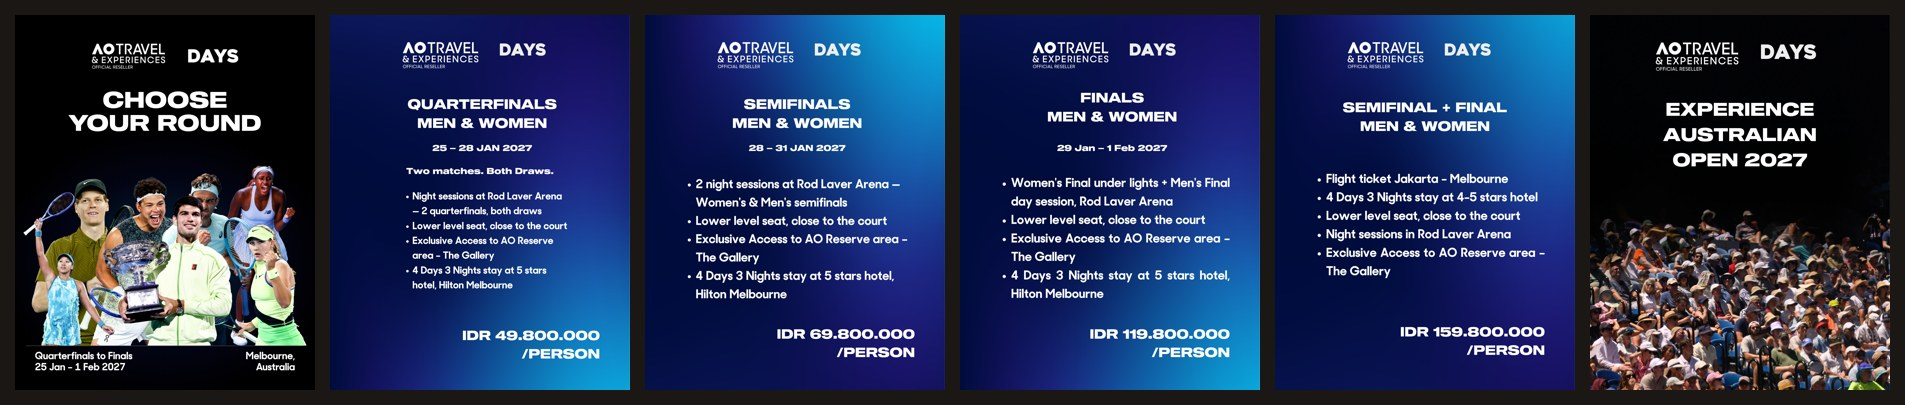
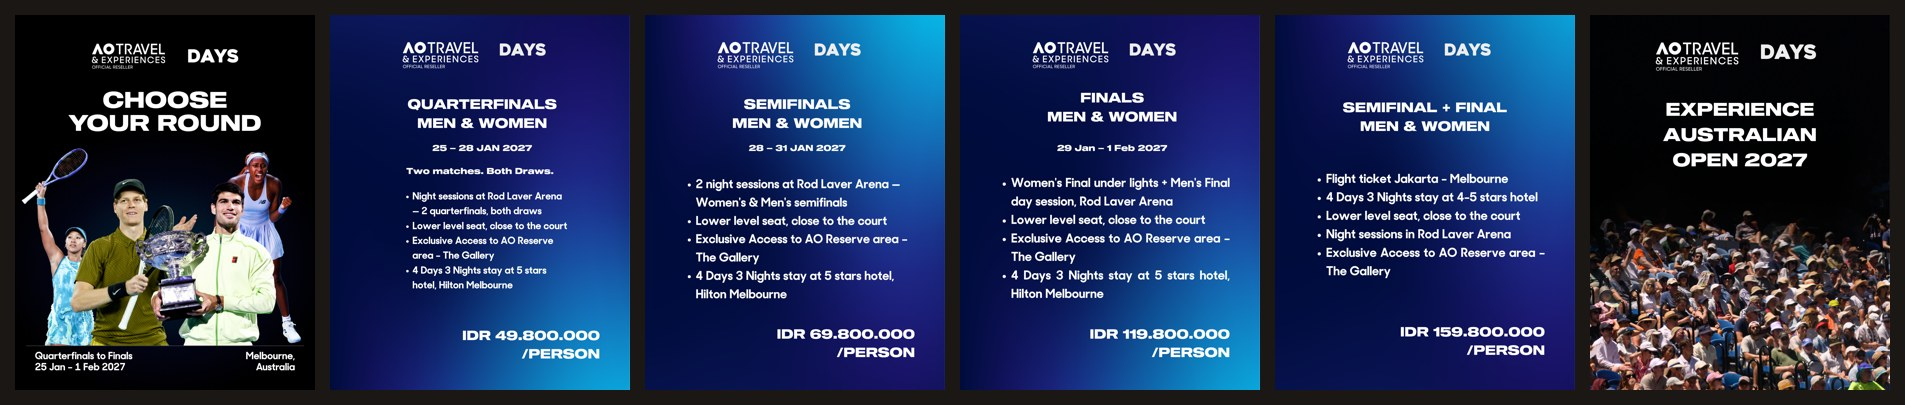
AO 2027: Post 2 cover with four players (Alcaraz, Sinner, Osaka, Gauff)
Claude-Session: https://claude.ai/code/session_01Eb5aT3tpEevDBBbf6MCDFd

Changed region(s): [[0.0, 0.3556, 0.1858, 0.8593]]

diff --git a/social/ao-2027/slides.html b/social/ao-2027/slides.html
@@ -86,13 +86,10 @@ h2 em{font-style:normal;color:var(--blue)}
   <h1>Choose<br>your round</h1>
   <!-- Players may overlap one another; no text sits on any image. Back to front. -->
   <div class="players">
-    <img src="img/player-m-sinner.png" alt="" style="left:60px;height:600px;z-index:1">
-    <img src="img/player-w-gauff.png" alt="" style="right:40px;height:650px;z-index:1">
-    <img src="img/player-m-shelton.png" alt="" style="left:268px;height:610px;z-index:2">
-    <img src="img/player-m-4.png" alt="" style="right:206px;height:620px;z-index:2">
-    <img src="img/player-a-trim.png" alt="" style="left:30px;height:560px;z-index:3">
-    <img src="img/player-b-trim.png" alt="" style="right:30px;height:440px;z-index:3">
-    <img src="img/player-m-alcaraz.png" alt="" style="left:318px;height:540px;z-index:4">
+    <img src="img/player-a-trim.png" alt="" style="left:24px;height:720px;z-index:1">
+    <img src="img/player-w-gauff.png" alt="" style="right:50px;height:700px;z-index:1">
+    <img src="img/player-m-sinner.png" alt="" style="left:200px;height:600px;z-index:2">
+    <img src="img/player-m-alcaraz.png" alt="" style="right:140px;height:590px;z-index:3">
   </div>
   <div class="base"></div>
   <div class="meta"><span>Quarterfinals to Finals<br>25 Jan – 1 Feb 2027</span><span class="r">Melbourne,<br>Australia</span></div>

diff --git a/social/ao-2027/caption.md b/social/ao-2027/caption.md
@@ -71,7 +71,7 @@ DM kami atau WhatsApp +62 812-2000-0185.
 
 | # | Slide | Source |
 |---|---|---|
-| 01 | Cover: *CHOOSE YOUR ROUND*, seven player cut-outs (four men, three women) grouped together; players overlap one another, no text on any image | DAYS, built from official AO imagery |
+| 01 | Cover: *CHOOSE YOUR ROUND*, four player cut-outs (Alcaraz, Sinner, Osaka, Gauff) grouped together; players overlap one another, no text on any image | DAYS, built from official AO imagery |
 | 02 | Quarterfinals · Men & Women · 25–28 Jan 2027 | AO-approved |
 | 03 | Semifinals · Men & Women · 28–31 Jan 2027 | AO-approved |
 | 04 | Finals · Men & Women · 29 Jan – 1 Feb 2027 | AO-approved |
